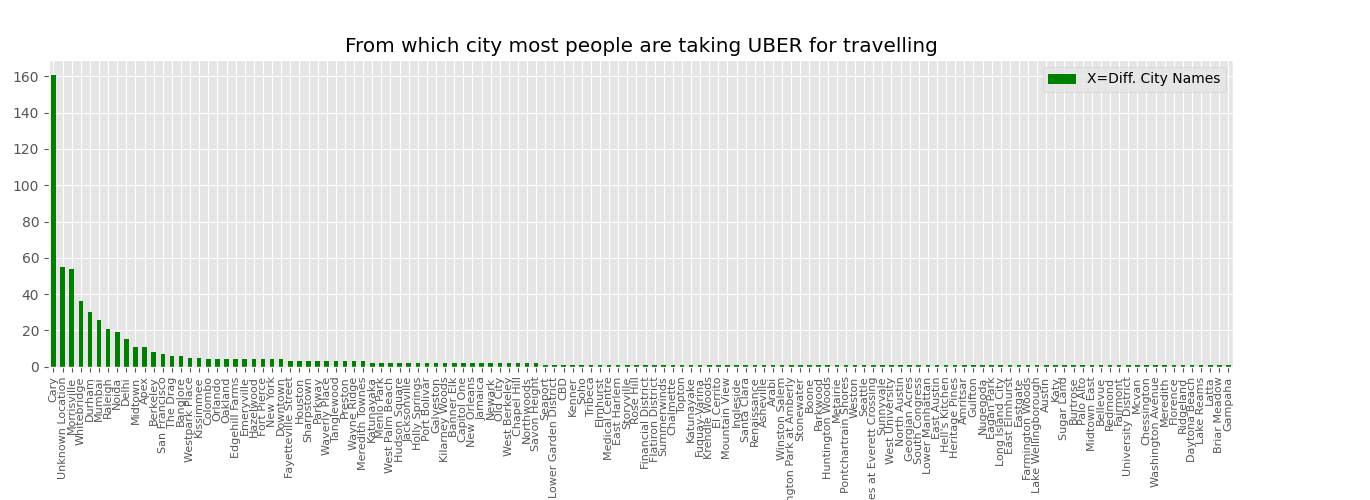
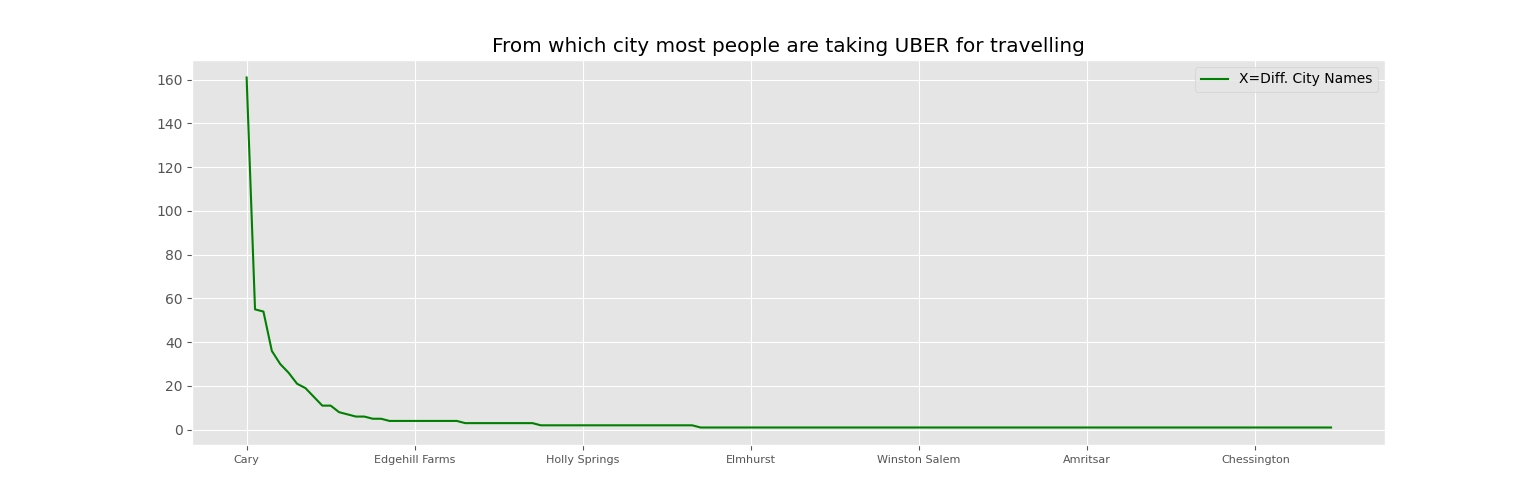
figures

Changed region(s): [[0.0, 0.06, 0.9197, 0.99], [0.5518, 0.96, 0.5825, 0.99]]

diff --git a/Minor project data analysis/UberDA.py b/Minor project data analysis/UberDA.py
@@ -86,12 +86,12 @@ plt.legend(labels=('X=Month of year',),
            loc='upper right')
 plt.title('Month wise data of UBER trips')
 plt.show()
-data['START_DESTINATION*'].value_counts().plot(kind='bar', figsize=(45, 5), color='green')
+data['START_DESTINATION*'].value_counts().plot(kind='line', figsize=(45, 5), color='green')
 plt.tick_params(axis='x', which='major', labelsize=8)
 plt.legend(labels=('X=Diff. City Names',),
            loc='upper right')
 plt.title('From which city most people are taking UBER for travelling')
 plt.show()
-data.groupby('PURPOSE*').mean().plot(kind='bar', figsize=(15, 5))
+data.groupby('PURPOSE*').mean().plot(kind='line', figsize=(15, 5))
 plt.title('Comparing all the purpose with miles, hour, day of the month, day of the week, month, Travelling time')
 plt.show()
